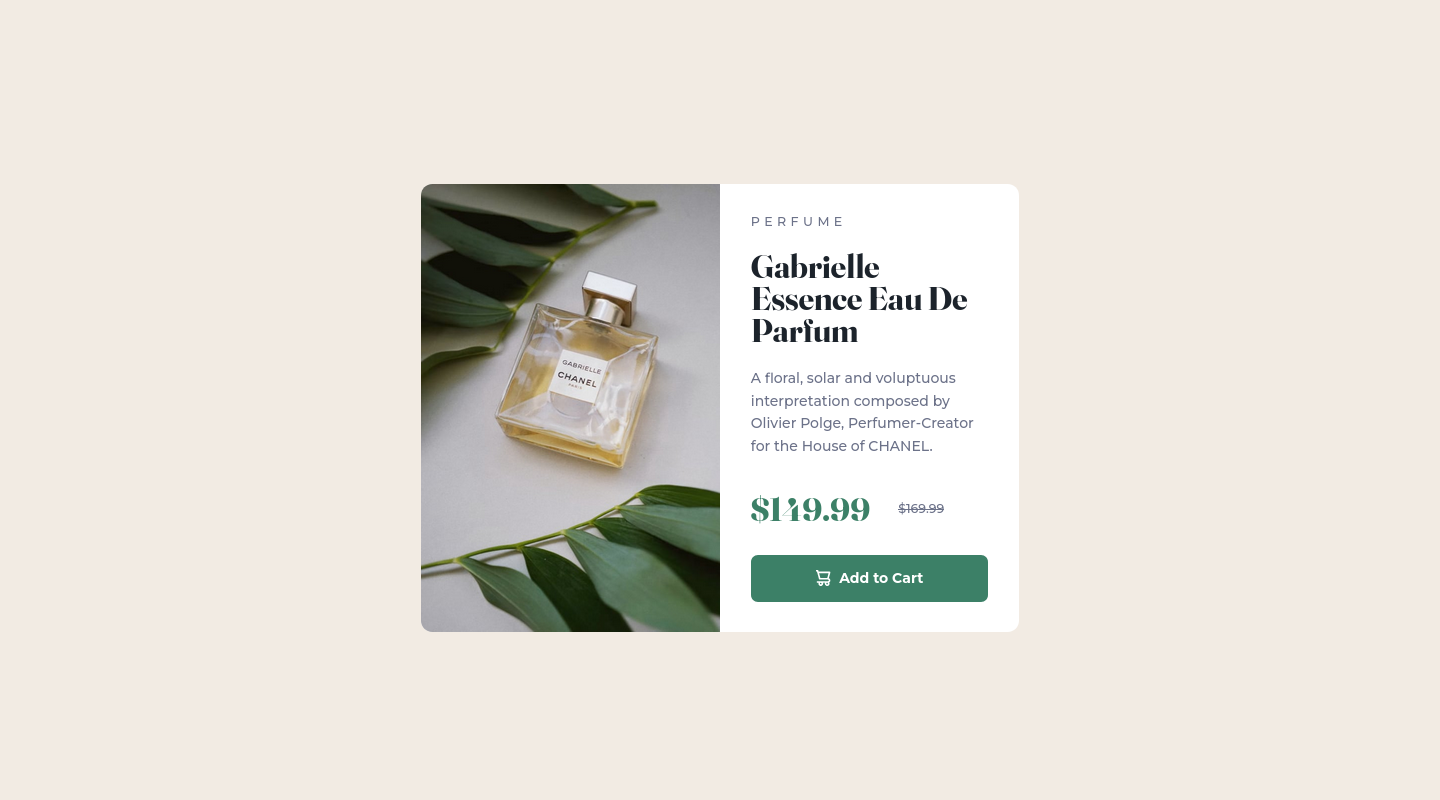
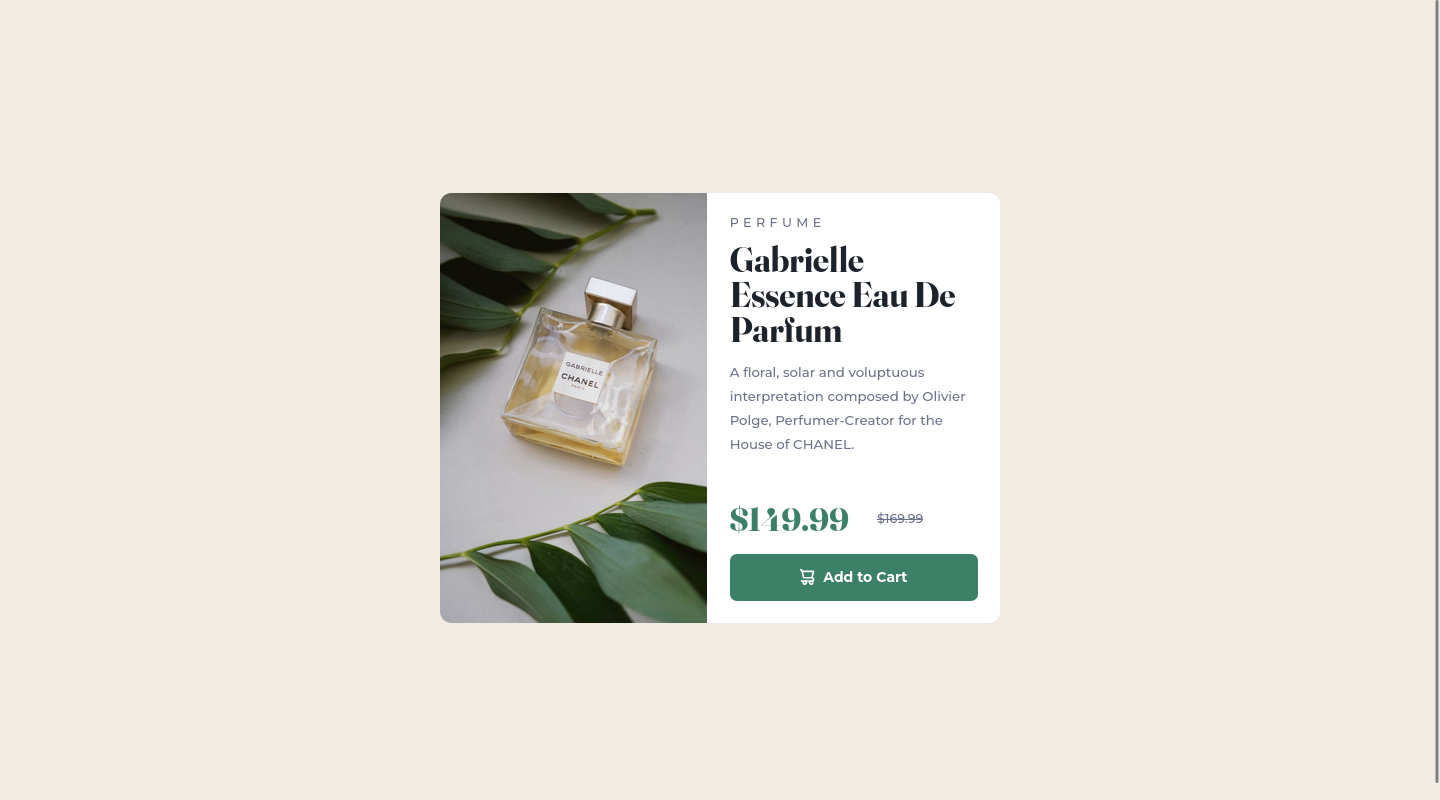
Adkusted media query

Changed region(s): [[0.2812, 0.2188, 0.7188, 0.8125]]

diff --git a/styles.css b/styles.css
@@ -128,7 +128,7 @@ img {
 	display: inline-block;
 }
 
-@media (min-width: 768px  ) {
+@media (min-width: 560px  ) {
 	.product-card {
 		flex-direction: row;
 		width: 40rem;
